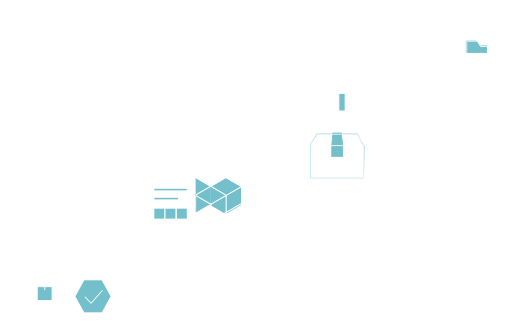
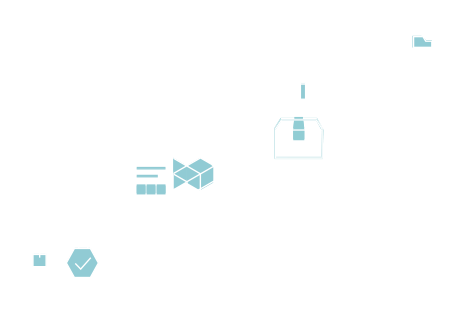
About (scene2, 3) design update (Zeplin compliant)

diff --git a/about/about.tpl.html b/about/about.tpl.html
@@ -1,29 +1,18 @@
 <div id="parallax2" class="parallax">
 	<div class="content"
-			 style="position:relative;
-							top:300px;">
+			 style="padding-top:350px;">
 
 		<div class="row">
 			<div class="col-md-12">
-				<div style="margin-bottom:76px;
-										height:42px;
-										font-family: Montserrat;
-										font-size: 48px;
-										font-weight: bold;
-										font-style: normal;
-										font-stretch: normal;
-										line-height: 1;
-										letter-spacing: -1.2px;
-										text-align: left;
-										text-transform:uppercase;
-										color: #304766;">
+				<div style="color: #304766;"
+						class="about-header">
 					Temco Advantage
 					<img style="margin-top: 15px;
     													margin-left: 5px;" class="dot" src="img/copy9@2x.png" />
 					<a name="about" class="pin">&nbsp;</a>
 				</div>
 			</div>
-			<div class="col-md-6">
+			<div class="col-md-6 ig-left">
 				<div class="row icon-container">
 					<div>
 						<img src="img/icon_connected@2x.png" />
@@ -33,7 +22,7 @@
 							Connected
 						</div>
 						<div class="normal2">
-							Track, share, and access real time data anywhere<br />
+							Track, share, and access real time data anywhere
 							anytime through highly linked blockchain technology
 						</div>
 					</div>
@@ -48,7 +37,7 @@
 							Credible
 						</div>
 						<div class="normal2">
-							Vendors are background checked through<br />
+							Vendors are background checked through
 							our Vendor Verification System (VVS).
 						</div>
 					</div>
@@ -63,7 +52,7 @@
 							Transparent
 						</div>
 						<div class="normal2">
-							Data collected through smart contract in<br />
+							Data collected through smart contract in
 							blockchain is safe and transparent.
 						</div>
 					</div>
@@ -93,7 +82,7 @@
 							Secure
 						</div>
 						<div class="normal2" style="margin-bottom:120px;">
-							Blockchain data is distributed and therefore,<br />
+							Blockchain data is distributed and therefore,
 							unmodifiable.
 						</div>
 					</div>
@@ -101,7 +90,9 @@
 
 			</div>
 			<div class="col-md-6 align-right">
-				<img class="max hide-mobile" src="img/ig_advantage1@2x.png" />
+				<img class="max"
+						 style="mix-blend-mode: multiply;"
+						 src="img/ig_advantage1@2x.png" />
 			</div>
 		</div>
 	</div>
@@ -110,10 +101,20 @@
 <div id="parallax3" class="parallax"
 		 style="padding-top:40px;">
 
-	<div class="content" style="margin-top:180px;">
+	<div class="content" style="margin-top:151px;">
 		<a name="about" class="pin">&nbsp;</a>
 		<div class="row">
-			<div class="col-md-6">
+			<div class="col-md-12">
+				<div class="align-right bright about-header"
+						 id="igHeaderRight"
+						 style="color: #effbfd;">
+					Revolutionary<br />
+					<img style="margin-top: 14px;
+    													margin-right: 10px;" class="dot" src="img/copy9@2x.png" />
+					Solution
+				</div>
+			</div>
+			<div class="col-md-6 ig-left" style="padding-bottom:250px;">
 				<div class="row icon-container">
 					<div>
 						<img src="img/icon_verifiedvendor@2x.png" />
@@ -123,7 +124,7 @@
 							Verified Vendors
 						</div>
 						<div class="normal2 light-blue">
-							TEMCO only partners with businesses cleared<br />
+							TEMCO only partners with businesses cleared
 							by the Vendor Verification System (VVS)
 						</div>
 					</div>
@@ -138,8 +139,8 @@
 							Linked Data
 						</div>
 						<div class="normal2 light-blue">
-							Smart tags track the entire supply chain process<br />
-							from point of origin to the final consumer, helping<br />
+							Smart tags track the entire supply chain process
+							from point of origin to the final consumer, helping
 							companies boost efficiency and cut costs.
 						</div>
 					</div>
@@ -154,8 +155,8 @@
 							Real Reviews
 						</div>
 						<div class="normal2 light-blue">
-							Consumers who purchased the product can post<br />
-							reviews. Using blockchain technology for verification,<br />
+							Consumers who purchased the product can post
+							reviews. Using blockchain technology for verification,
 							TEMCO eliminates the risk of fake reviews.
 						</div>
 					</div>
@@ -179,26 +180,7 @@
 
 			</div>
 			<div class="col-md-6 align-right">
-				<div class="align-right bright hide-mobile"
-						 style="height: 105px;
-														margin-bottom:110px;
-														text-transform:uppercase;
-														font-family: Montserrat;
-														font-size: 48px;
-														font-weight: bold;
-														font-style: normal;
-														font-stretch: normal;
-														line-height: normal;
-														letter-spacing: -1.2px;
-														margin-top:-65px;
-														text-align: right;
-														color: #effbfd;">
-					Revolutionary<br />
-					<img style="margin-top: 14px;
-    													margin-right: 10px;" class="dot" src="img/copy9@2x.png" />
-					Solution
-				</div>
-				<img class="max hide-mobile" src="img/IG_SOLUTION@2x.png">
+				<img class="max" style="margin-top:135px;" src="img/IG_SOLUTION@2x.png">
 			</div>
 		</div>
 	</div>

diff --git a/team/team.css b/team/team.css
@@ -12,6 +12,14 @@
 	padding:10px;
 }
 
+@media only screen and (max-width: 770px) {
+
+	.portrait-container{
+		width:50%;
+	}
+
+}
+
 @media only screen and (max-width: 400px) {
 
 	#teamMembers{
